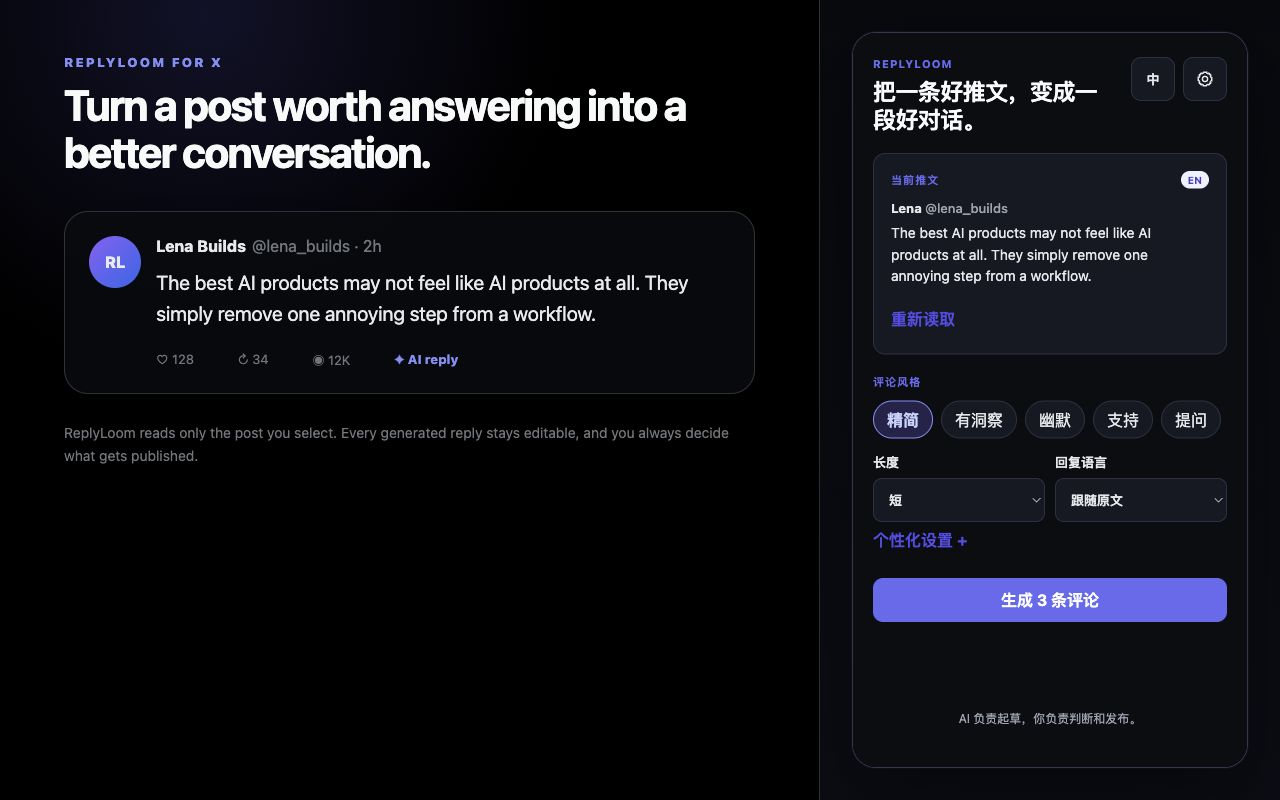
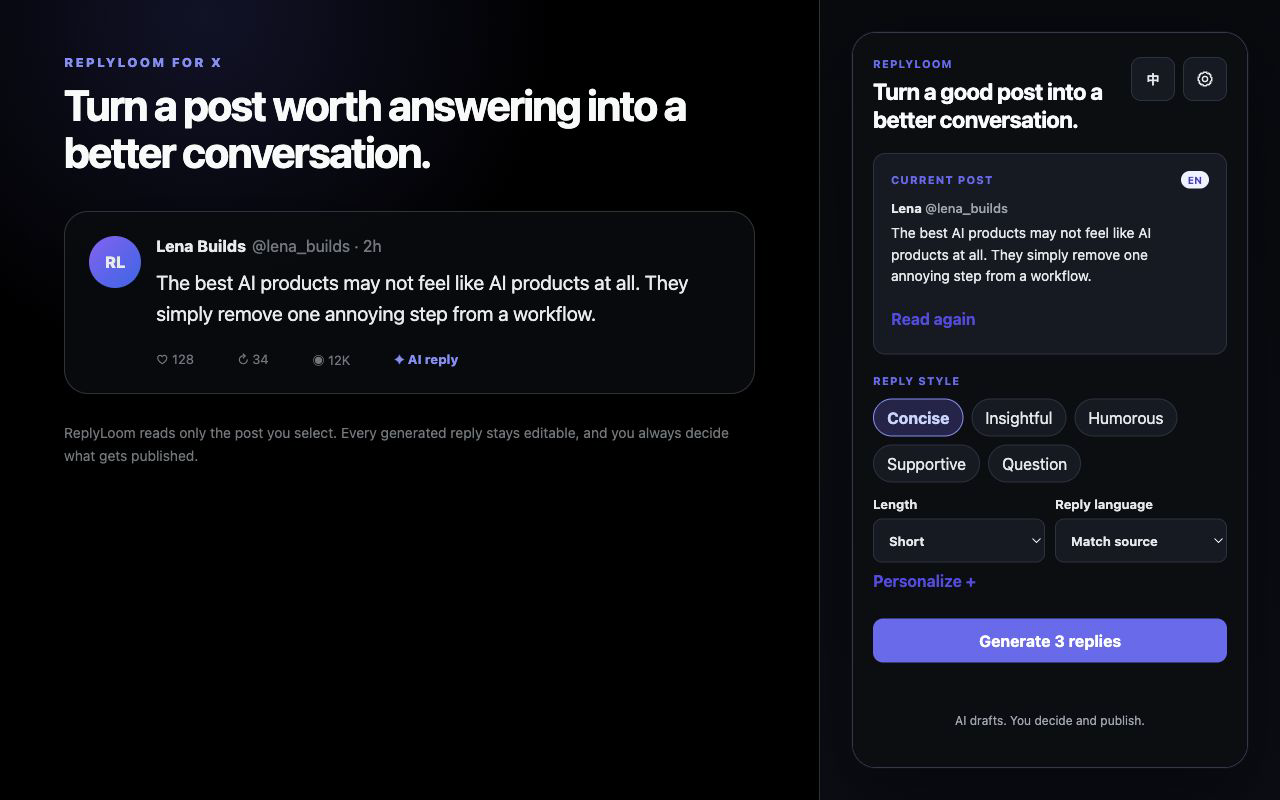
Default site to English and complete bilingual copy

diff --git a/app.js b/app.js
@@ -1,17 +1,20 @@
 const messages = {
   en: {
+    primaryNav:"Primary navigation",policyNav:"Policy navigation",brandHome:"ReplyLoom home",heroVisual:"ReplyLoom extension preview",productPrinciples:"Product principles",providerList:"Supported AI providers",providerGlm:"Zhipu GLM",providerDoubao:"Doubao",providerQwen:"Qwen",providerMoonshot:"Moonshot AI",providerSiliconFlow:"SiliconFlow",metaDescription:"ReplyLoom drafts thoughtful, editable replies for X with the AI provider you already use.",policyMetaDescription:"How ReplyLoom handles selected X post context, provider credentials, and local preferences.",ogTitle:"ReplyLoom — Better replies, still your voice",ogDescription:"Three thoughtful drafts. Your model. Your final say.",
     skip:"Skip to content",navHow:"How it works",navPrivacy:"Privacy",navPolicy:"Policy",backHome:"Home",eyebrow:"AI reply assistant for X",headlineOne:"Better replies.",headlineTwo:"Still your voice.",lead:"Turn a post worth answering into three thoughtful, editable drafts. Use your own model and publish only when it sounds like you.",watch:"Watch the demo",coming:"Chrome Web Store · Coming soon",heroAlt:"ReplyLoom side panel drafting a reply on X",trustOneTitle:"3 distinct drafts",trustOneText:"Not three rewrites of the same thought",trustTwoTitle:"8 providers",trustTwoText:"Connect the model you already use",trustThreeTitle:"0 auto-posts",trustThreeText:"You review and publish every reply",demoEyebrow:"30-second tour",demoTitle:"See the whole loop.",demoText:"Choose a post, shape the angle, review the drafts, and insert one into X. ReplyLoom stops before publish.",videoFallback:"Your browser does not support embedded video.",howEyebrow:"How it works",howTitle:"A small loop. A better reply.",stepOneTitle:"Pick the post",stepOneText:"Click AI reply under the X post you want to answer. ReplyLoom reads only that selected context.",stepTwoTitle:"Choose the angle",stepTwoText:"Set tone, length, language, and optional voice guidance. Generate three genuinely different drafts.",stepThreeTitle:"Make it yours",stepThreeText:"Edit a draft, insert it into X, and publish manually only after it sounds right.",providerEyebrow:"Bring your own model",providerTitle:"One assistant. Your choice of intelligence.",providerText:"Connect directly to a supported OpenAI-compatible provider. Your key is stored in Chrome only if you choose to save it.",privacyEyebrow:"Human in the loop",privacyTitle:"Drafts, never autopilot.",privacyText:"ReplyLoom never batch-replies or clicks the final Reply button. It sends selected context only to the model provider you choose and runs no developer-owned model proxy.",readPolicy:"Read the privacy policy →",footerLine:"Thoughtful drafts. Human judgment.",disclaimer:"ReplyLoom is independent and is not affiliated with X Corp. or any supported model provider.",policyEyebrow:"Plain-language privacy",policyTitle:"Privacy Policy",policyDate:"Effective June 23, 2026",policyIntro:"ReplyLoom is a browser extension that helps users draft replies to posts on X. It does not publish replies automatically, operate an engagement bot, or run a developer-owned model proxy.",policyAtGlance:"At a glance",glanceOne:"Your selected post is sent only when you generate.",glanceTwo:"Your API key goes only to your chosen provider.",glanceThree:"ReplyLoom never publishes for you.",glanceFour:"No data is sold or used for advertising.",dataTitle:"Data ReplyLoom handles",dataOne:"The text and public context of the X post selected by the user.",dataTwo:"Reply preferences such as language, tone, length, and optional writing instructions.",dataThree:"The API key, provider, endpoint, and model selected by the user.",dataFour:"Local interface preferences and floating-panel positions.",useTitle:"How data is used",useOne:"When you request reply drafts, the selected post context and reply preferences are sent directly from the extension to the model provider you selected. The API key is sent only to that provider for authentication.",useTwo:"Supported providers include OpenAI, DeepSeek, MiniMax, Zhipu GLM, Volcengine Ark (Doubao), Alibaba Cloud Model Studio (Qwen), Moonshot AI, and SiliconFlow. Each provider processes requests under its own terms and privacy policy.",storageTitle:"Storage and retention",storageOne:"API keys are stored in Chrome extension storage only when you enable the save-key option. Otherwise they remain in session storage.",storageTwo:"Provider settings and interface preferences are stored locally.",storageThree:"Selected post context is kept in session storage for the current browser session.",storageFour:"ReplyLoom does not send API keys, post content, or generated replies to a server operated by the ReplyLoom developer.",storageFive:"You can remove locally stored data by clearing the extension's data or uninstalling ReplyLoom.",sharingTitle:"Data sharing",sharingText:"ReplyLoom shares selected post context and generation instructions only with the model provider you choose. It does not sell personal data, use data for advertising or creditworthiness, or share data with unrelated third parties.",permissionsTitle:"Permissions and security",permissionsText:"ReplyLoom accesses X pages only to read the post you select and insert a user-approved draft into the relevant reply editor. Network access is limited to an explicit list of supported HTTPS provider domains. ReplyLoom does not execute remotely hosted code.",controlTitle:"User control",controlText:"ReplyLoom creates editable drafts. You must review and manually publish every reply. The extension does not click X's final Reply or Post button.",changesTitle:"Changes",changesText:"If this policy changes, the effective date above will be updated and the revised policy will be published at this URL.",contact:"Contact"
   },
   zh: {
+    primaryNav:"主导航",policyNav:"隐私政策导航",brandHome:"ReplyLoom 首页",heroVisual:"ReplyLoom 扩展界面预览",productPrinciples:"产品特点",providerList:"支持的 AI 模型服务商",providerGlm:"智谱 GLM",providerDoubao:"豆包",providerQwen:"通义千问",providerMoonshot:"Moonshot AI / Kimi",providerSiliconFlow:"硅基流动",metaDescription:"ReplyLoom 使用你自己的 AI 模型，为 X 推文生成有想法、可编辑的回复草稿。",policyMetaDescription:"ReplyLoom 如何处理所选 X 推文上下文、模型服务商凭据和本地偏好。",ogTitle:"ReplyLoom — 回复更有想法，表达仍然是你",ogDescription:"三条不同草稿。你的模型。由你决定。",
     skip:"跳到主要内容",navHow:"使用方式",navPrivacy:"隐私设计",navPolicy:"隐私政策",backHome:"返回首页",eyebrow:"为 X 打造的 AI 回复助手",headlineOne:"回复更有想法。",headlineTwo:"表达仍然是你。",lead:"把一条值得回应的推文，变成三条自然、可编辑的草稿。使用你自己的模型，只有听起来像你时才发布。",watch:"观看演示",coming:"Chrome 应用商店 · 即将上线",heroAlt:"ReplyLoom 在 X 上生成回复草稿的侧边栏界面",trustOneTitle:"3 条不同草稿",trustOneText:"不是同一个想法换三种说法",trustTwoTitle:"8 家模型服务商",trustTwoText:"连接你已经在用的模型",trustThreeTitle:"0 次自动发布",trustThreeText:"每条回复都由你检查和发布",demoEyebrow:"30 秒产品演示",demoTitle:"看完整个工作流。",demoText:"选择推文、确定角度、检查草稿，再填入 X。ReplyLoom 会在发布之前停下来。",videoFallback:"你的浏览器不支持内嵌视频。",howEyebrow:"使用方式",howTitle:"三个动作，写出更好的回复。",stepOneTitle:"选择推文",stepOneText:"点击 X 推文下方的 AI reply。ReplyLoom 只读取你主动选择的这条内容。",stepTwoTitle:"确定角度",stepTwoText:"设置语气、长度、语言和个人表达偏好，一次生成三条真正不同的草稿。",stepThreeTitle:"改成你的表达",stepThreeText:"编辑草稿、填入 X，并在确认表达合适后由你亲自发布。",providerEyebrow:"使用你自己的模型",providerTitle:"一个助手，自由选择模型。",providerText:"直接连接受支持的 OpenAI-compatible 服务商。只有你选择保存时，API Key 才会保存在 Chrome 扩展存储中。",privacyEyebrow:"始终由人做决定",privacyTitle:"只起草，不代替你行动。",privacyText:"ReplyLoom 不会批量回复，也不会点击最终的“回复”按钮。选中的内容只发送给你选择的模型服务商，不经过开发者自建的模型代理。",readPolicy:"阅读隐私政策 →",footerLine:"AI 起草，人来判断。",disclaimer:"ReplyLoom 是独立产品，与 X Corp. 及所支持的模型服务商不存在隶属或官方合作关系。",policyEyebrow:"清楚易懂的隐私说明",policyTitle:"隐私政策",policyDate:"生效日期：2026 年 6 月 23 日",policyIntro:"ReplyLoom 是帮助用户为 X 推文撰写回复草稿的浏览器扩展。它不会自动发布回复、运行互动机器人，也不会使用开发者自建的模型代理。",policyAtGlance:"快速了解",glanceOne:"只有你点击生成时，选中的推文才会被发送。",glanceTwo:"API Key 只发送给你选择的模型服务商。",glanceThree:"ReplyLoom 永远不会替你发布。",glanceFour:"不会出售数据，也不会用于广告。",dataTitle:"ReplyLoom 处理的数据",dataOne:"你主动选择的 X 推文正文及公开上下文。",dataTwo:"回复语言、语气、长度以及可选的写作要求。",dataThree:"你选择的 API Key、服务商、接口地址和模型。",dataFour:"保存在本地的界面偏好与悬浮面板位置。",useTitle:"数据如何使用",useOne:"当你请求生成回复草稿时，所选推文的上下文和回复偏好会由扩展直接发送到你选择的模型服务商。API Key 只用于向该服务商进行身份验证。",useTwo:"支持的服务商包括 OpenAI、DeepSeek、MiniMax、智谱 GLM、火山方舟（豆包）、阿里云百炼（通义千问）、Moonshot AI 和硅基流动。各服务商按照其自身条款和隐私政策处理请求。",storageTitle:"存储与保留",storageOne:"只有你开启保存选项时，API Key 才会保存在 Chrome 扩展存储中；否则仅保留在当前会话中。",storageTwo:"服务商设置和界面偏好保存在本地。",storageThree:"选中的推文上下文保存在当前浏览器会话中。",storageFour:"ReplyLoom 不会将 API Key、推文内容或生成的回复发送到开发者运营的服务器。",storageFive:"你可以通过清除扩展数据或卸载 ReplyLoom 来删除本地存储的数据。",sharingTitle:"数据共享",sharingText:"ReplyLoom 只会把选中的推文上下文和生成要求发送给你选择的模型服务商。不会出售个人数据，不会用于广告或信用评估，也不会分享给无关第三方。",permissionsTitle:"权限与安全",permissionsText:"ReplyLoom 访问 X 页面仅用于读取你选择的推文，并将你认可的草稿填入相应的回复框。网络访问仅限明确列出的 HTTPS 模型服务商域名，且不会执行远程托管的代码。",controlTitle:"用户控制",controlText:"ReplyLoom 只创建可编辑草稿。每条回复都必须由你检查并手动发布，扩展不会点击 X 最终的“回复”或“发布”按钮。",changesTitle:"政策更新",changesText:"如果本政策发生变化，我们会更新上方生效日期，并在此网址发布修订后的版本。",contact:"联系方式"
   }
 };
 
 const stored = localStorage.getItem("replyloom-language");
-const language = stored === "zh" || stored === "en" ? stored : (navigator.language.toLowerCase().startsWith("zh") ? "zh" : "en");
+const language = stored === "zh" || stored === "en" ? stored : "en";
 
 function applyLanguage(next) {
   const dictionary = messages[next];
+  const isPolicy = Boolean(document.querySelector(".policy"));
   document.documentElement.lang = next === "zh" ? "zh-CN" : "en";
   document.querySelectorAll("[data-i18n]").forEach((node) => {
     const value = dictionary[node.dataset.i18n];
@@ -21,11 +24,21 @@ function applyLanguage(next) {
     const value = dictionary[node.dataset.i18nAlt];
     if (value) node.setAttribute("alt", value);
   });
+  document.querySelectorAll("[data-i18n-aria-label]").forEach((node) => {
+    const value = dictionary[node.dataset.i18nAriaLabel];
+    if (value) node.setAttribute("aria-label", value);
+  });
   document.querySelectorAll("[data-language-toggle]").forEach((button) => {
-    button.textContent = next === "zh" ? "EN" : "中文";
+    button.textContent = next === "zh" ? "EN" : "中";
     button.setAttribute("aria-label", next === "zh" ? "Switch to English" : "切换到中文");
   });
-  document.title = document.querySelector(".policy") ? (next === "zh" ? "ReplyLoom 隐私政策" : "ReplyLoom Privacy Policy") : (next === "zh" ? "ReplyLoom — 回复更有想法，表达仍然是你" : "ReplyLoom — Better replies, still your voice");
+  document.title = isPolicy ? (next === "zh" ? "ReplyLoom 隐私政策" : "ReplyLoom Privacy Policy") : (next === "zh" ? "ReplyLoom — 回复更有想法，表达仍然是你" : "ReplyLoom — Better replies, still your voice");
+  const description = document.querySelector('meta[name="description"]');
+  const ogTitle = document.querySelector('meta[property="og:title"]');
+  const ogDescription = document.querySelector('meta[property="og:description"]');
+  if (description) description.setAttribute("content", isPolicy ? dictionary.policyMetaDescription : dictionary.metaDescription);
+  if (ogTitle) ogTitle.setAttribute("content", dictionary.ogTitle);
+  if (ogDescription) ogDescription.setAttribute("content", dictionary.ogDescription);
   localStorage.setItem("replyloom-language", next);
 }
 

diff --git a/index.html b/index.html
@@ -16,12 +16,12 @@
   <body>
     <a class="skip-link" href="#main" data-i18n="skip">Skip to content</a>
     <header class="site-header">
-      <a class="brand" href="./" aria-label="ReplyLoom home"><span class="brand-mark">RL</span><span>REPLYLOOM</span></a>
-      <nav aria-label="Primary navigation">
+      <a class="brand" href="./" aria-label="ReplyLoom home" data-i18n-aria-label="brandHome"><span class="brand-mark">RL</span><span>REPLYLOOM</span></a>
+      <nav aria-label="Primary navigation" data-i18n-aria-label="primaryNav">
         <a href="#how" data-i18n="navHow">How it works</a>
         <a href="#privacy" data-i18n="navPrivacy">Privacy</a>
         <a href="privacy.html" data-i18n="navPolicy">Policy</a>
-        <button class="language-toggle" type="button" data-language-toggle aria-label="切换到中文">中文</button>
+        <button class="language-toggle" type="button" data-language-toggle aria-label="切换到中文">中</button>
       </nav>
     </header>
 
@@ -36,13 +36,13 @@
             <span class="status"><span class="status-dot"></span><span data-i18n="coming">Chrome Web Store · Coming soon</span></span>
           </div>
         </div>
-        <div class="hero-visual" aria-label="ReplyLoom extension preview">
+        <div class="hero-visual" aria-label="ReplyLoom extension preview" data-i18n-aria-label="heroVisual">
           <div class="window-bar"><span></span><span></span><span></span><div>x.com / home</div></div>
           <img src="assets/screenshot-compose.png" width="1280" height="800" alt="ReplyLoom side panel drafting a reply on X" data-i18n-alt="heroAlt" />
         </div>
       </section>
 
-      <section class="trust-strip section-shell" aria-label="Product principles">
+      <section class="trust-strip section-shell" aria-label="Product principles" data-i18n-aria-label="productPrinciples">
         <div><strong data-i18n="trustOneTitle">3 distinct drafts</strong><span data-i18n="trustOneText">Not three rewrites of the same thought</span></div>
         <div><strong data-i18n="trustTwoTitle">8 providers</strong><span data-i18n="trustTwoText">Connect the model you already use</span></div>
         <div><strong data-i18n="trustThreeTitle">0 auto-posts</strong><span data-i18n="trustThreeText">You review and publish every reply</span></div>
@@ -69,7 +69,7 @@
 
       <section class="providers section-shell">
         <div class="provider-copy"><div class="eyebrow" data-i18n="providerEyebrow">Bring your own model</div><h2 data-i18n="providerTitle">One assistant.<br />Your choice of intelligence.</h2><p data-i18n="providerText">Connect directly to a supported OpenAI-compatible provider. Your key is stored in Chrome only if you choose to save it.</p></div>
-        <div class="provider-list" aria-label="Supported AI providers"><span>OpenAI</span><span>DeepSeek</span><span>MiniMax</span><span>GLM</span><span>Doubao</span><span>Qwen</span><span>Moonshot</span><span>SiliconFlow</span></div>
+        <div class="provider-list" aria-label="Supported AI providers" data-i18n-aria-label="providerList"><span>OpenAI</span><span>DeepSeek</span><span>MiniMax</span><span data-i18n="providerGlm">Zhipu GLM</span><span data-i18n="providerDoubao">Doubao</span><span data-i18n="providerQwen">Qwen</span><span data-i18n="providerMoonshot">Moonshot AI</span><span data-i18n="providerSiliconFlow">SiliconFlow</span></div>
       </section>
 
       <section class="privacy-block section-shell" id="privacy">
@@ -77,7 +77,7 @@
       </section>
     </main>
 
-    <footer class="site-footer section-shell"><div><a class="brand footer-brand" href="./"><span class="brand-mark">RL</span><span>REPLYLOOM</span></a><p data-i18n="footerLine">Thoughtful drafts. Human judgment.</p></div><div class="footer-links"><a href="mailto:[email redacted]">[email redacted]</a><a href="privacy.html" data-i18n="navPolicy">Privacy Policy</a></div><p class="disclaimer" data-i18n="disclaimer">ReplyLoom is independent and is not affiliated with X Corp. or any supported model provider.</p></footer>
+    <footer class="site-footer section-shell"><div><a class="brand footer-brand" href="./" aria-label="ReplyLoom home" data-i18n-aria-label="brandHome"><span class="brand-mark">RL</span><span>REPLYLOOM</span></a><p data-i18n="footerLine">Thoughtful drafts. Human judgment.</p></div><div class="footer-links"><a href="mailto:[email redacted]">[email redacted]</a><a href="privacy.html" data-i18n="navPolicy">Privacy Policy</a></div><p class="disclaimer" data-i18n="disclaimer">ReplyLoom is independent and is not affiliated with X Corp. or any supported model provider.</p></footer>
     <script src="app.js" defer></script>
   </body>
 </html>

diff --git a/privacy.html b/privacy.html
@@ -11,7 +11,7 @@
   </head>
   <body>
     <a class="skip-link" href="#main" data-i18n="skip">Skip to content</a>
-    <header class="site-header"><a class="brand" href="index.html"><span class="brand-mark">RL</span><span>REPLYLOOM</span></a><nav aria-label="Policy navigation"><a href="index.html" data-i18n="backHome">Home</a><button class="language-toggle" type="button" data-language-toggle aria-label="切换到中文">中文</button></nav></header>
+    <header class="site-header"><a class="brand" href="index.html" aria-label="ReplyLoom home" data-i18n-aria-label="brandHome"><span class="brand-mark">RL</span><span>REPLYLOOM</span></a><nav aria-label="Policy navigation" data-i18n-aria-label="policyNav"><a href="index.html" data-i18n="backHome">Home</a><button class="language-toggle" type="button" data-language-toggle aria-label="切换到中文">中</button></nav></header>
     <main class="policy section-shell" id="main">
       <div class="eyebrow" data-i18n="policyEyebrow">Plain-language privacy</div>
       <h1 data-i18n="policyTitle">Privacy Policy</h1>